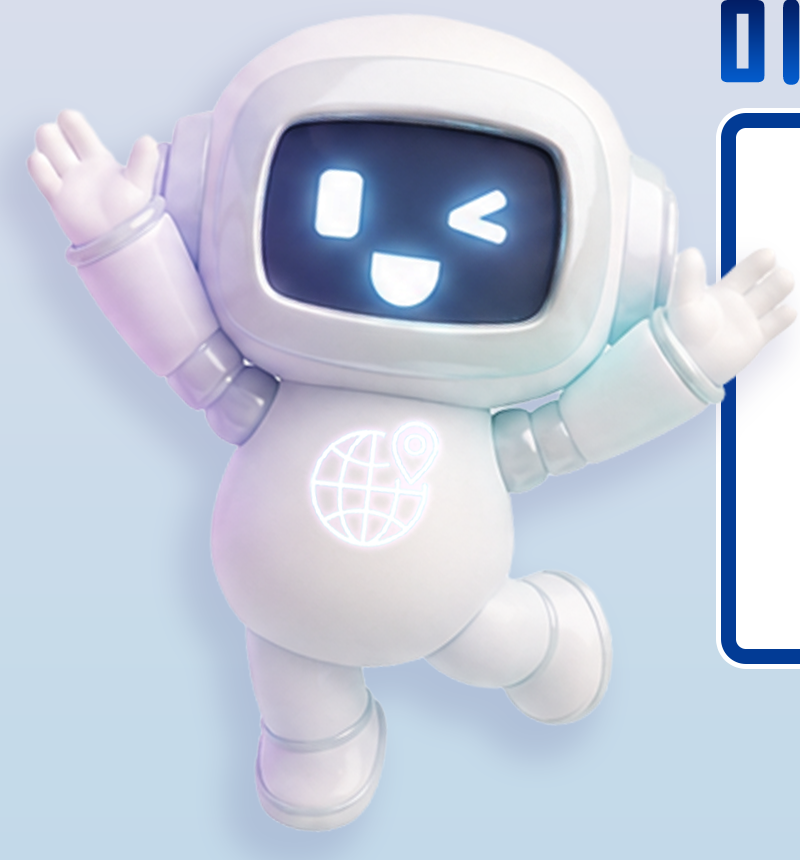
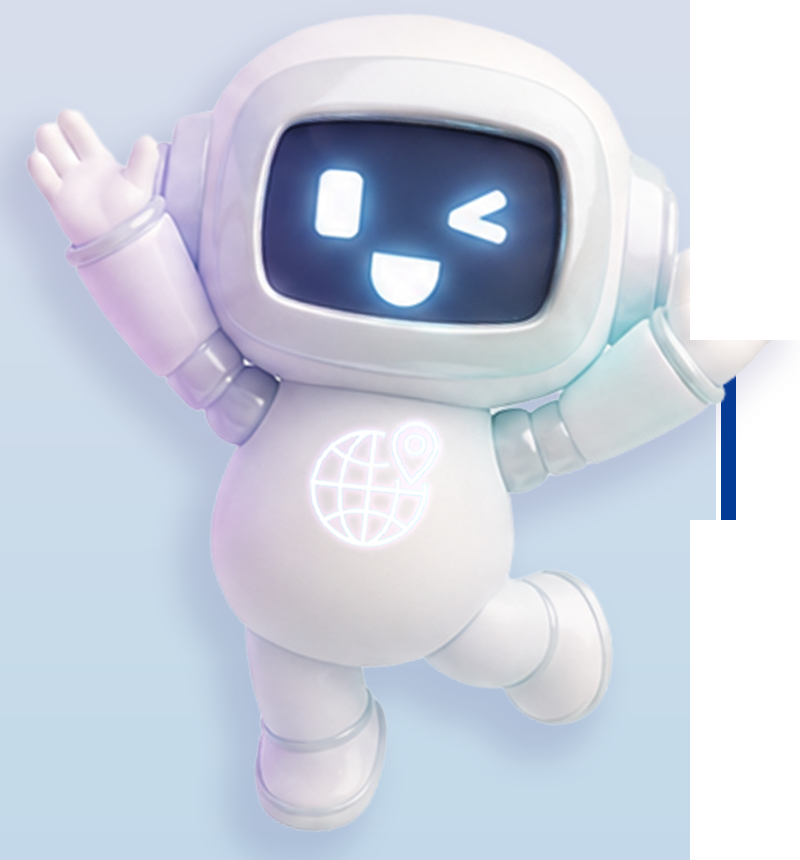
사이트 갱신 2026-10-19

Changed region(s): [[0.8438, 0.6047, 1.0, 1.0], [0.8438, 0.0, 1.0, 0.393], [0.8438, 0.3628, 0.875, 0.393]]

diff --git a/sa/01/page19.html b/sa/01/page19.html
@@ -6,8 +6,9 @@
     <title>프롬프트를 고쳐라</title>
     <link rel="stylesheet" href="../../css/common.css">
     <style>
-        /* 안내 로봇 img/p19_robot.png(통 배경에서 잘라 냄), 제목·판은 공용 .end-*, 별 줄은 CSS */
-        .p19-robot{position:absolute;left:40px;top:60px;width:800px;height:860px;pointer-events:none}
+        /* 안내 로봇은 공용 sa/img/sa_wink_cheer.png(sa/02 마무리와 같은 자리), 제목·판은 공용 .end-*, 별 줄은 CSS */
+        .p19-character{position:absolute;left:10px;top:50px;z-index:10}
+        .p19-character img{display:block}
         .p19-stars{position:absolute;left:0;right:0;margin:0 auto;bottom:62px;width:772px;height:168px;box-sizing:border-box;border:solid 6px #8db4ea;border-radius:84px;background:#023a96;display:flex;align-items:center;justify-content:space-evenly;padding:0 20px}
         .p19-stars img{width:120px;height:auto}
         .end-panel{min-height:0;height:552px;padding-top:28px;justify-content:flex-start}
@@ -21,7 +22,7 @@
     <div id="stage-spacer">
       <div id="stage" class="stage">
         <main class="bg-default">
-          <img class="p19-robot" src="img/p19_robot.png" alt="">
+          <div class="p19-character"><img src="../img/sa_wink_cheer.png" alt=""></div>
           <p class="end-title">미션 성공!</p>
           <div class="end-panel">
             <p class="end-desc">모든 프롬프트를<br>성공적으로 수정했어요!</p>
